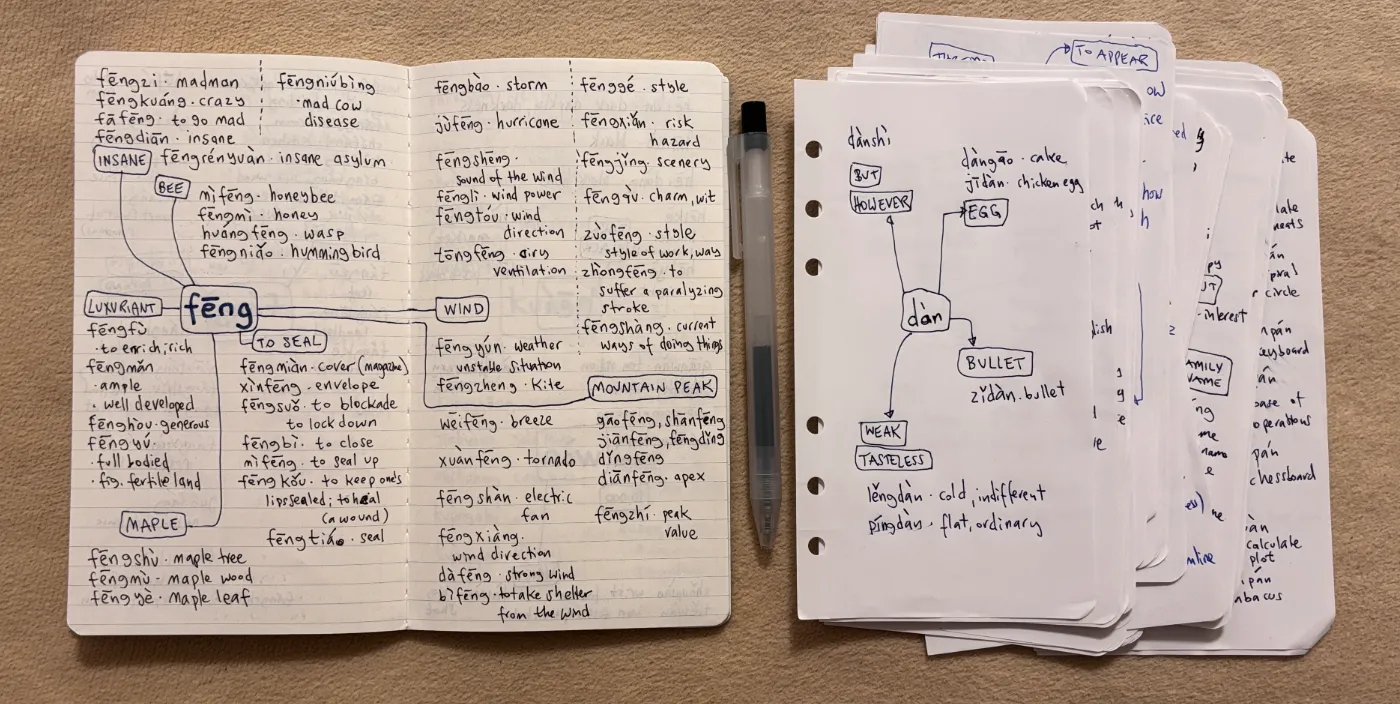
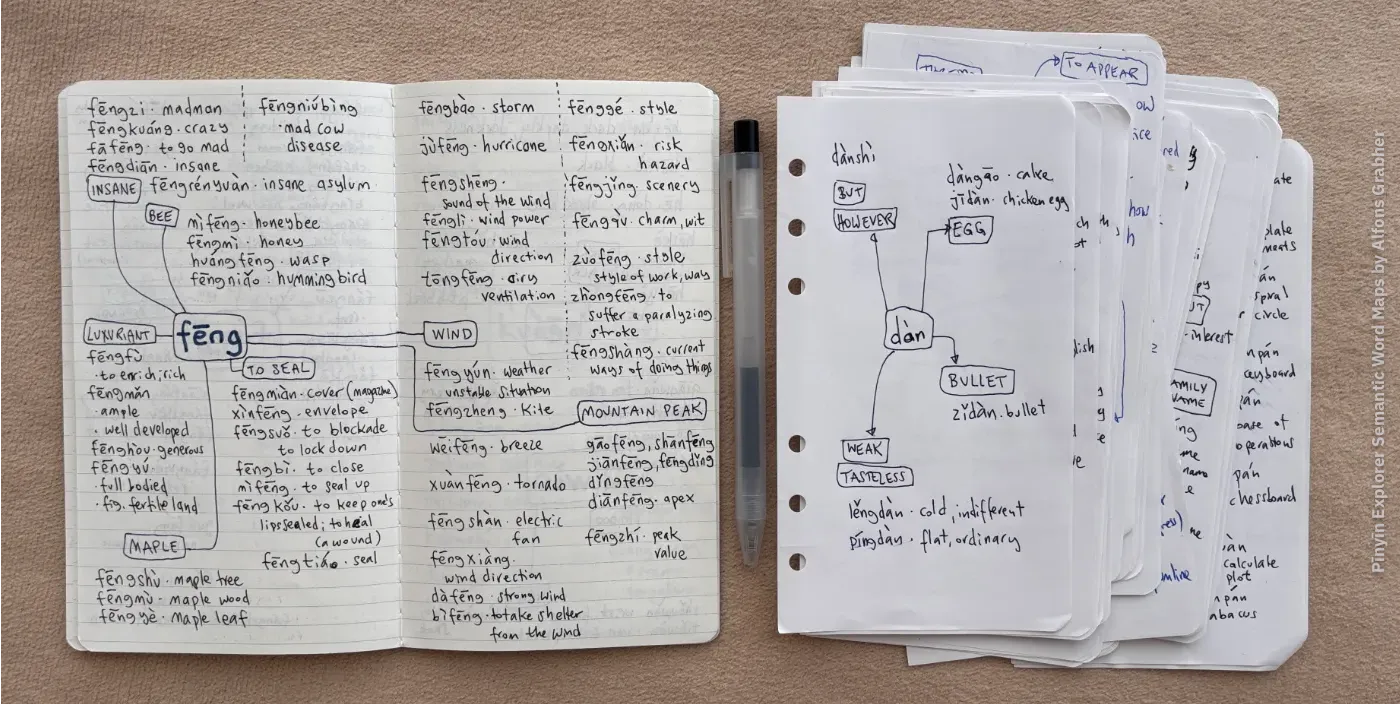
Update home page

diff --git a/assets/css/extended/custom.css b/assets/css/extended/custom.css
@@ -209,27 +209,71 @@ h6,
     line-height: 1.45;
 }
 
-/* Callout Box */
+
+/* ===================== CONTENT BOX ============ */
+
+/* Container reset */
+.content-box-container {
+    margin: 2rem 0;
+    padding: 0;
+}
+
+/* Card Box (Matches PaperMod entry style & image shadow) */
 .content-box {
     border: 1px solid var(--border-color, #e5e5e5);
     border-radius: 0.75rem;
     padding: 1.5rem 1.75rem;
-    margin: 2rem 0;
     background-color: var(--entry, #FAF9F6);
 }
 
-.content-box p {
+/* Optional Shadow Modifier Class */
+.content-box.has-shadow {
+    box-shadow: 0 4px 12px rgba(0, 0, 0, 0.04);
+}
+
+.dark .content-box.has-shadow {
+    box-shadow: 0 4px 14px rgba(0, 0, 0, 0.25);
+}
+
+/* Header: Classic Printed Matter Style */
+.content-box .box-header {
+    text-align: center;
+    font-size: 0.75rem;
+    font-weight: 600;
+    text-transform: uppercase;
+    letter-spacing: 0.15em;
+    color: var(--secondary);
+    margin-bottom: 1.25rem;
+    padding-bottom: 0.65rem;
+    border-bottom: 1px solid var(--border);
+}
+
+/* Main Text Body (Standard Article Font Size) */
+.content-box .box-body {
+    line-height: 1.7;
+    color: var(--primary);
+}
+
+.content-box .box-body p {
     margin-bottom: 1rem;
 }
 
-.content-box p:last-child {
+.content-box .box-body p:last-child {
     margin-bottom: 0;
 }
 
-.dark .content-box {
-    border-color: var(--border, #333);
-    background-color: var(--entry, #1d1e20);
+/* Subtitle / Caption Outside the Card (Identical to .img-subtitle / PaperMod figure captions) */
+.content-box-container .box-subtitle {
+    margin-top: 0.65rem;
+    font-size: 0.85rem;
+    color: var(--secondary);
+    text-align: center;
+    font-style: normal;
+    line-height: 1.4;
+    text-wrap: balance;
 }
+
+/* ===================== CONTENT BOX END ============ */
 
 
 /* ==========================================================================
@@ -272,6 +316,8 @@ h6,
     opacity: 0.75;
     text-align: center;
     font-style: normal;
+        text-wrap: balance;
+
 }
 
 

diff --git a/layouts/shortcodes/box.html b/layouts/shortcodes/box.html
@@ -1,3 +1,15 @@
-<div class="content-box">
-  {{ .Inner | markdownify }}
-</div>
+<figure class="content-box-container">
+  <div class="content-box {{ if eq (.Get "shadow") "true" }}has-shadow{{ end }}">
+    {{ with .Get "header" }}
+      <div class="box-header">{{ . }}</div>
+    {{ end }}
+
+    <div class="box-body">
+      {{ .Inner | markdownify }}
+    </div>
+  </div>
+
+  {{ with .Get "subtitle" }}
+    <figcaption class="img-subtitle">{{ . }}</figcaption>
+  {{ end }}
+</figure>

diff --git a/content/_index.md b/content/_index.md
@@ -15,21 +15,23 @@ url: "/"
 
 {{< hero level="h0" title="Bypass the Character Barrier" subtitle="A Delightful Path for Self-Directed Learners" >}}
 
-The Pīnyīn Explorer Method is an original set of tools and pedagogical concepts built for adults ready to bypass the character barrier and engage directly with modern Mandarin.
+The Pīnyīn Explorer Method is an original set of tools and pedagogical concepts for adults ready to learn modern Mandarin through its official alphabetic script, Hànyǔ Pīnyīn.
 
-With Chinese, you face a thousand hours of character study before you can read the written language. Traditional methods build their curriculum around mastering 2,500 to 3,500 individual characters, creating tens of thousands of character-related learning targets long before you ever get the chance to read real literature or authentic stories.
+With Mandarin, you face a thousand hours of character study before you can confidently read written text. Traditional methods center their curricula on mastering 2,500 to 3,500 individual characters, stacking up tens of thousands of character-related learning targets long before you ever get the chance to read real literature or authentic stories.
+
+The Pīnyīn Explorer Method helps you bypass this massive first barrier so you can dive directly into pronunciation, vocabulary, and real reading.
 
 ### Words Carry Meaning
 
-Traditional, test-driven pedagogy infantilizes intelligent adults with paint-by-numbers, theme-based scripts:
+You bring complex ideas, professional expertise, and a distinct sense of humor to the table. Yet traditional pedagogy infantilizes adult learners, reducing modern Mandarin to sterile, paint-by-numbers scripts:
 
 > 我喜欢吃中国菜。 *Wǒ xǐhuan chī Zhōngguó cài.* — *I like to eat Chinese food.*  
 > 你是学生吗？ *Nǐ shì xuésheng ma?* — *Are you a student?*  
 > 对不起，我迟到了。 *Duìbuqǐ, wǒ chídào le.* — *Sorry I'm late.*  
 
-{{< pullquote title="In real life, we speak because we have something to say" >}}
+{{< pullquote title="Chinese literature is vast, vibrant, and brilliant—the real barrier is simply access" >}}
 
-You don't need to put up with infantile textbook scripts when you have the choice to engage with authentic, living language. The Mandarin world has its own literary titans—master storytellers whose work remains locked behind thousands of characters. By treating Hànyǔ Pīnyīn as a standalone orthography, you unlock immediate access to authentic Chinese literature from day one.
+You don't need to put up with infantile textbook scripts when you have the choice to engage with authentic, living language. From historical giants to contemporary masters, Chinese literature is vast, vibrant, and brilliant—the real barrier is simply access. By treating Hànyǔ Pīnyīn as a standalone orthography, you strip away the character drag and unlock immediate access to living literature from day one.
 
 ---
 
@@ -55,7 +57,7 @@ Skip graded readers. Drop real podcast transcripts, news articles, and native me
 {{< hero level="h0" title="The Pīnyīn Explorer Toolkit" subtitle="The Apps and Exercises with Pen & Paper" >}}
 
 ## Pīnyīn A-Z Soundboard
-Speak Mandarin from day one. The complete monosyllabic, phonotactic, and morphemic inventory of modern Mandarin. The ultimate Pinyin chart featuring 2,000+ native recordings, pitch visualizer, keyboard navigation, active recall testing, and extensive search and filtering options.
+Speak Mandarin from day one. The complete monosyllabic, phonotactic, and morphemic inventory of modern Mandarin. The ultimate Pinyin chart featuring 2,000+ native recordings, pitch visualizer, keyboard navigation, autoplay, as well as extensive search, sorting, and filtering options.
 
 {{< img src="/images/pinyin_az_soundboard_hero_sans@1.webp" alt="Pīnyīn A-Z Soundboard" shadow="true" >}}
 
@@ -72,7 +74,9 @@ A plain-text reading environment with adjustable Pīnyīn visibility. Paste raw 
 {{< img src="/images/pinyin_peekaboo_reader_hero_sans@1.webp" alt="Pīnyīn Explorer’s Peekaboo Reader" shadow="true" >}}
 
 ## Semantic Word Maps
-Drawing manual maps gives your creativity free rein while deep memory takes root. Place a base Pīnyīn word in the center and branch out into its primary senses and compound families using pen and paper.
+Learning vocabulary shouldn't happen entirely behind a screen. The hand-drawn maps of the Pīnyīn Explorer method take you off the computer and onto paper to build a personal lexicon. You place a Pīnyīn anchor word at the center, identify its primary senses, and curate your own compound families directly from the dictionary. 
+
+Instead of memorizing generic textbook lists, you select the exact words that are meaningful, useful, and fun to you—practicing proper orthographic spelling and engaging with the language on your own terms.
 
 {{< img src="/images/coffee_and_chinese@1.webp" alt="Semantic Word Maps" shadow="true" >}}
 
@@ -88,15 +92,39 @@ Consider the following sentence. Even after many months of studying Mandarin, an
 学习中文存在一个奇特的瓶颈：学习拼音文字时，你第一天就能朗读并开始交流；而学习中文，你却需要先克服汉字这一高昂的门槛，才能真正实现阅读。
 {{< /box >}}
 
-Here is the exact same sentence in official Hànyǔ Pīnyīn—after just a few days of focused pronunciation practice, we can read it aloud comfortably (even if we still have to learn the vocabulary):
+Now look at the exact same sentence in official Hànyǔ Pīnyīn. The character wall is gone. You can parse the text immediately. Perfecting your tones will take a few weeks of deliberate practice—and then you can focus on building vocabulary and learning the language, which will be hard enough on its own:
 
 {{< box >}}
 Xuéxí Zhōngwén cúnzài yī gè qítè de píngjǐng: xuéxí pīnyīn wénzì shí, nǐ dì-yī tiān jiù néng lǎngdú bìng kāishǐ jiāoliú; ér xuéxí Zhōngwén, nǐ què xūyào xiān kèfú Hànzì zhè yī gāo’áng de ménkǎn, cái néng zhēnzhèng shíxiàn yuèdú.
 {{< /box >}}
 
-{{< img src="/images/santi_three_body_problem_pinyin@1.webp" alt="The first paragraph from Liu Cixin’s trilogy »The Three-Body Problem«" shadow="true" >}}
+For a beginner or intermediate learner of Mandarin, the bookstore isn’t off-limits—the characters are. The moment you remove that barrier, the full spectrum of authentic Chinese literature is yours to read:
 
-What if you could dive straight into the original Chinese of Liu Cixin’s masterpiece, *The Three-Body Problem*—grappling with the vocabulary, unspooling the grammar, and soaking in the references—without spending five years memorizing characters first?
+What if you could dive straight into the original Chinese of Liu Cixin’s masterpiece of dark cosmic sci-fi—*The Three-Body Problem*—grappling with the vocabulary, unspooling the syntax, and savoring the cadence of the original prose—without spending five years memorizing characters first?
+
+{{< img src="/images/pinyin_explorer_scifi_future_banner.webp" alt="" shadow="true" >}}
+
+{{< box header="Liú Cíxīn • 三体 • ◼001" shadow="true" subtitle="Excerpt from Liú Cíxīn’s »The Three-Body Problem« in official Hànyǔ Pīnyīn" >}}
+Wāng Miǎo juéde, lái zhǎo tā de zhè sì gè rén shì yī gè qíguài de zǔ-hé: liǎng míng jǐngchá hé liǎng míng jūnrén, rúguǒ nà liǎng gè jūnrén shì wǔjǐng hái suàn zhèngcháng, dàn zhè shì liǎng míng lùjūn jūnguān.
+
+“Qǐng bù yào zài wǒ jiālǐ chōuyān.” Wāng Miǎo lánzhùle tā.
+
+“Nà jiù zài lóudào lǐ shuō ba.” Shǐ Qiáng shuōzhe, shēnshēn de xīle yī dàkǒu, shǒu zhōng de yān jīhū rán xiàqù yībàn, zhīhòu jìng bùjiàn tǔchū yān lái.
+{{< /box >}}
+
+Or perhaps your tastes lean more toward the fast-paced, dialogue-rich world of modern Chinese pop culture? What if you could read Mòbǎofēibǎo’s romance hit Honey Stewed Squid (Mìzhī Dùn Yóuyú)—experiencing the immediate, playful inner monologues and authentic conversational flow—without getting read-blocked by a wall of characters?
+
+{{< img src="/images/pinyin_explorer_web_novel_romance_banner.webp" alt="" shadow="true" >}}
+
+{{< box header="Mòbǎofēibǎo • 蜜汁炖鱿鱼" shadow="true" subtitle="Excerpt from Mòbǎofēibǎo’s novel »Honey Stewed Squid« — adapted as the hit TV series Go Go Squid! starring Yáng Zǐ and Lǐ Xiàn" >}}
+Xiǎng zhīdào shénme jiào yījiàn-zhōngqíng ma?
+
+Jiùshì zhè yī miǎo. Jiùshì xiànzài, tā duì miànqián gézhe yī gè guìtái de nánrén yījiàn-zhōngqíng le.
+
+Tóng Nián dītóu, shǒuzhǐ zài jiànpán shàng pīli-pālā de qiāo ya qiāo, míngmíng xiǎngyào jiànlì yī gè xīn mìmǎ, kě, nǎozi lǐ què zài pīnmìng de huíxiǎng, qián yī miǎo, tā duì zìjǐ shuō “bāoyè” liǎng gè zì de shíhòu, zìjǐ jiūjìng yǒu méiyǒu duì tā xiào? Hǎoxiàng zuǐjiǎo yǒu shàngyáng? Háishì chúndāi?
+{{< /box >}}
+
+Whether it’s the foundational social commentary of Lǔ Xùn (鲁迅), cosmic hard sci-fi, or contemporary romance, treating Hànyǔ Pīnyīn as an independent orthography unlocks the entire spectrum of modern Chinese literature from day one.
 
 ---
 

diff --git a/content/manifesto.md b/content/manifesto.md
@@ -65,6 +65,8 @@ Therefore, I suggest skipping the character barrier (at least at first.) Here is
 Xuéxí Zhōngwén cúnzài yī gè qítè de píngjǐng: xuéxí pīnyīn wénzì shí, nǐ dì-yī tiān jiù néng lǎngdú bìng kāishǐ jiāoliú; ér xuéxí Zhōngwén, nǐ què xūyào xiān kèfú Hànzì zhè yī gāo’áng de ménkǎn, cái néng zhēnzhèng shíxiàn yuèdú.
 {{< /box >}}
 
+Concerning homophones, in modern Mandarin, two-syllable Hànyǔ Pīnyīn words are 98.4% unique in everyday vocabulary, with context effortlessly resolving the rest—provided official GB/T 16159-2012 orthography is followed. [Read the Empirical Analysis of Pīnyīn Uniqueness →](https://alfons.github.io/PinyinUniquenessStudy/)
+
 Traditional methods build their curriculum around mastering 2,500 to 3,500 individual characters. For every character, alongside its meaning you also have to memorize its pronunciation, its components and radicals, and its stroke order.
 
 That baseline alone creates 10,000 to 14,000 individual character-related learning targets. Factor in handwriting and you might be looking at double or triple that (42,000), all required long before you ever get the chance to read real literature or authentic stories.
